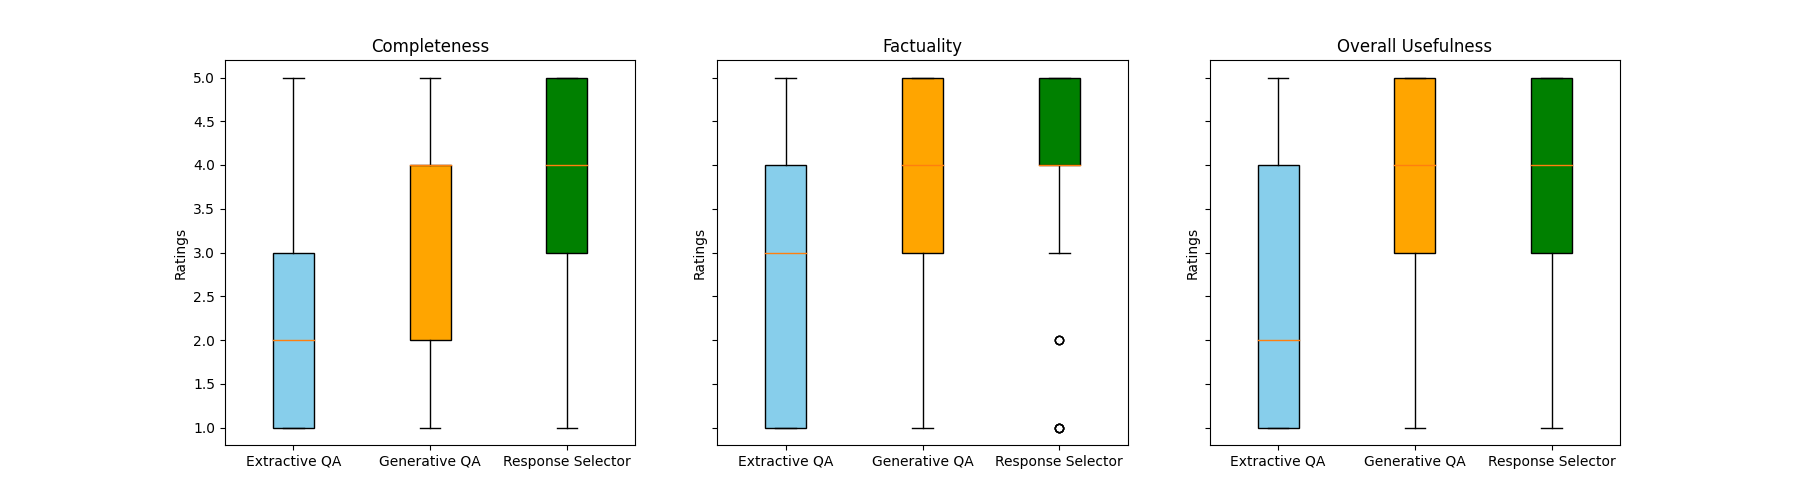
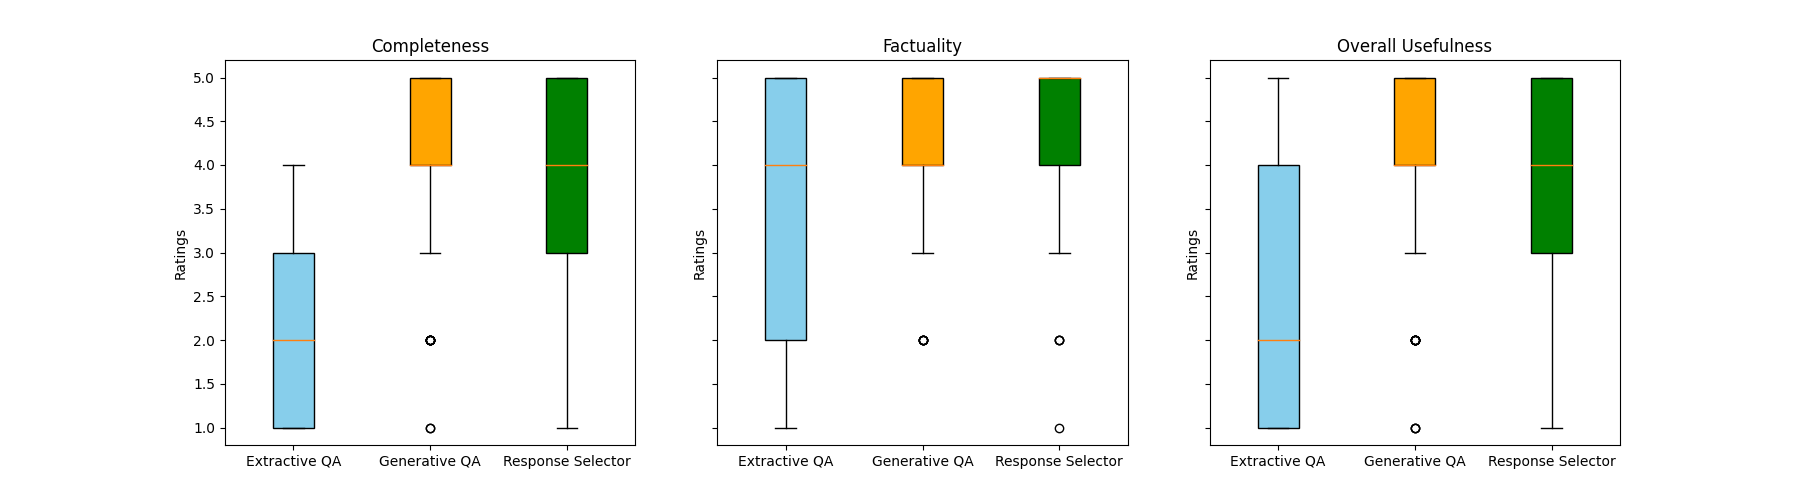
updated stats

diff --git a/analyze_results/t_test.py b/analyze_results/t_test.py
@@ -1,0 +1,92 @@
+import scipy.stats as stats
+import matplotlib.pyplot as plt
+import seaborn as sns
+import pandas as pd
+from scipy import stats
+df = pd.read_csv("./results_reports.csv")
+
+faq_data = df[df['intent_category'] == 'faq']
+out_of_scope =  df[df['intent_category'] == 'out_of_scope']
+
+
+def plot_histograms(aspect, extractive, generative, rs, output_file):
+    plt.figure(figsize=(12, 6))
+
+    # Plot Extractive QA
+    plt.subplot(1, 3, 1)
+    sns.histplot(extractive, kde=True)
+    plt.title(f'Extractive QA {aspect}')
+
+    # Plot Generative QA
+    plt.subplot(1, 3, 2)
+    sns.histplot(generative, kde=True)
+    plt.title(f'Generative QA {aspect}')
+
+    # Plot Response Selector
+    plt.subplot(1, 3, 3)
+    sns.histplot(rs, kde=True)
+    plt.title(f'Response Selector {aspect}')
+
+    # Show and save the plot
+    plt.tight_layout()
+    plt.savefig(output_file)
+    plt.show()
+
+def q_q_plot (aspect, extractive, generative, rs, output_file):
+    plt.figure(figsize=(12, 6))
+
+    plt.subplot(1, 3, 1)
+    stats.probplot(extractive, dist="norm", plot=plt)
+    plt.title(f'Extractive QA {aspect} Q-Q Plot')
+
+    plt.subplot(1, 3, 2)
+    stats.probplot(generative, dist="norm", plot=plt)
+    plt.title(f'Generative QA {aspect} Q-Q Plot')
+
+    plt.subplot(1, 3, 3)
+    stats.probplot(rs, dist="norm", plot=plt)
+    plt.title(f'Response Selector {aspect} Q-Q Plot')
+
+    plt.savefig(output_file)
+    plt.show()
+
+
+def write_t_test_results(file_name, data, aspect):
+    with open(file_name, 'w') as f:
+        # Completeness t-tests
+        t_stat1, p_val1 = stats.ttest_ind(data["completeness_1"].to_list(), data["completeness_2"].to_list())
+        t_stat2, p_val2 = stats.ttest_ind(data["completeness_1"].to_list(), data["completeness_3"].to_list())
+        t_stat3, p_val3 = stats.ttest_ind(data["completeness_2"].to_list(), data["completeness_3"].to_list())
+
+        f.write(f"{aspect} Completeness t-test results:\n")
+        f.write(f"Extractive vs Generative: t-stat={t_stat1}, p-value={p_val1}\n")
+        f.write(f"Extractive vs Response Selector: t-stat={t_stat2}, p-value={p_val2}\n")
+        f.write(f"Generative vs Response Selector: t-stat={t_stat3}, p-value={p_val3}\n\n")
+
+        # Factuality t-tests
+        t_stat1, p_val1 = stats.ttest_ind(data["factuality_1"].to_list(), data["factuality_2"].to_list())
+        t_stat2, p_val2 = stats.ttest_ind(data["factuality_1"].to_list(), data["factuality_3"].to_list())
+        t_stat3, p_val3 = stats.ttest_ind(data["factuality_2"].to_list(), data["factuality_3"].to_list())
+
+        f.write(f"{aspect} Factuality t-test results:\n")
+        f.write(f"Extractive vs Generative: t-stat={t_stat1}, p-value={p_val1}\n")
+        f.write(f"Extractive vs Response Selector: t-stat={t_stat2}, p-value={p_val2}\n")
+        f.write(f"Generative vs Response Selector: t-stat={t_stat3}, p-value={p_val3}\n\n")
+
+        # Usefulness t-tests
+        t_stat1, p_val1 = stats.ttest_ind(data["usefulness_1"].to_list(), data["usefulness_2"].to_list())
+        t_stat2, p_val2 = stats.ttest_ind(data["usefulness_1"].to_list(), data["usefulness_3"].to_list())
+        t_stat3, p_val3 = stats.ttest_ind(data["usefulness_2"].to_list(), data["usefulness_3"].to_list())
+
+        f.write(f"{aspect} Usefulness t-test results:\n")
+        f.write(f"Extractive vs Generative: t-stat={t_stat1}, p-value={p_val1}\n")
+        f.write(f"Extractive vs Response Selector: t-stat={t_stat2}, p-value={p_val2}\n")
+        f.write(f"Generative vs Response Selector: t-stat={t_stat3}, p-value={p_val3}\n\n")
+
+# 4. Write FAQ t-test results to 'faq_t_test.txt'
+write_t_test_results('faq_t_test.txt', faq_data, 'FAQ')
+
+# 5. Write out-of-scope t-test results to 'out_of_scope_t_test.txt'
+write_t_test_results('out_of_scope_t_test.txt', out_of_scope, 'Out of Scope')
+
+print("T-test results have been written to 'faq_t_test.txt' and 'out_of_scope_t_test.txt'")

diff --git a/analyze_results/visualize_results.py b/analyze_results/visualize_results.py
@@ -57,7 +57,7 @@ def plot_box_plots(df, category):
     plt.savefig(f"{category}_plot.png")
 
 
-df = load_result_file("./results.csv")
+df = load_result_file("./results_reports.csv")
 # Plot for 'out_of_scope' category
 plot_box_plots(df, 'out_of_scope')
 
